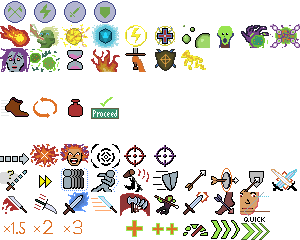
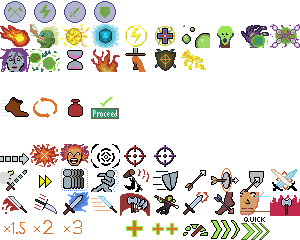
Add ability 'Execute' (regain AP on kill)

Changed region(s): [[0.9, 0.8167, 1.0, 0.9042]]

diff --git a/src/core.rs b/src/core.rs
@@ -182,7 +182,7 @@ impl CoreGame {
                                 _ => format!("{sta} stamina, {ap} AP"),
                             };
                             self.log(format!(
-                                "|{}| gained {} (Reaper)",
+                                "|{}| gained {} |<faded>(Reaper)|",
                                 character.name_tag(),
                                 gain_str
                             ))
@@ -1006,6 +1006,11 @@ impl CoreGame {
                 actual_effect = Some(ApplyEffect::RemoveActionPoints(lost));
                 format!("  |{}| lost {} AP", receiver.name_tag(), n)
             }
+            ApplyEffect::GainActionPoints(n) => {
+                let gained = receiver.action_points.gain(n);
+                actual_effect = Some(ApplyEffect::GainActionPoints(gained));
+                format!("  |{}| gained {} AP", receiver.name_tag(), n)
+            }
             ApplyEffect::GainStamina(n) => {
                 let gained = receiver.stamina.gain(n);
                 actual_effect = Some(ApplyEffect::GainStamina(gained));
@@ -1757,6 +1762,7 @@ impl CoreGame {
             for mut effect in ally_effect.apply.iter().flatten().flatten().copied() {
                 match effect {
                     ApplyEffect::RemoveActionPoints(ref mut n) => *n += degree_of_success,
+                    ApplyEffect::GainActionPoints(ref mut n) => *n += degree_of_success,
                     ApplyEffect::GainHealth(ref mut n) => *n += degree_of_success,
                     ApplyEffect::GainStamina(ref mut n) => *n += degree_of_success,
                     ApplyEffect::GainMana(ref mut n) => *n += degree_of_success,
@@ -2108,6 +2114,9 @@ impl CoreGame {
                 let mut reduced_to_nothing = false;
                 match effect {
                     ApplyEffect::RemoveActionPoints(ref mut n) => {
+                        apply_hit_type(n, hit_type, &mut reduced_to_nothing);
+                    }
+                    ApplyEffect::GainActionPoints(ref mut n) => {
                         apply_hit_type(n, hit_type, &mut reduced_to_nothing);
                     }
                     ApplyEffect::GainStamina(ref mut n) => {
@@ -2513,14 +2522,25 @@ impl CoreGame {
 
             let mut actual_health_lost = 0;
 
+            let mut applied_to_target = vec![];
+            let mut applied_to_self = vec![];
+
             if let Some(game) = game {
                 dmg_str.push_str(&format!(" = |<value>{damage}|"));
                 detail_lines.push(dmg_str);
                 actual_health_lost = game.perform_losing_health(defender, damage);
-            }
 
-            let mut applied_to_target = vec![];
-            let mut applied_to_self = vec![];
+                if defender.is_dead() {
+                    if let Some(effect) = ability_attack_effect.and_then(|e| e.on_kill_apply_self) {
+                        let (applied, log_line, _damage) =
+                            game.perform_effect_application(effect, Some(attacker), None, attacker);
+                        if let Some(applied) = applied {
+                            applied_to_self.push(applied);
+                        }
+                        detail_lines.push(log_line);
+                    }
+                }
+            }
 
             if let Some(game) = game {
                 if damage > 0 {
@@ -3347,6 +3367,9 @@ impl AbilityResolvedEvent {
             if matches!(outcome, AbilityTargetOutcome::HitEnemy { .. }) {
                 result.push(*target_id);
             }
+            if matches!(outcome, AbilityTargetOutcome::AttackedEnemy { .. }) {
+                result.push(*target_id);
+            }
         }
         if let Some(AbilityAreaOutcome { targets, .. }) = &self.area_outcome {
             for (target_id, outcome) in targets {
@@ -3692,6 +3715,7 @@ impl Characters {
 #[derive(Debug, Copy, Clone, PartialEq, Hash)]
 pub enum ApplyEffect {
     RemoveActionPoints(u32),
+    GainActionPoints(u32),
     Condition(ApplyCondition),
 
     GainHealth(u32),
@@ -3711,6 +3735,7 @@ impl ApplyEffect {
     fn multiply(&mut self, factor: u32) {
         match self {
             ApplyEffect::RemoveActionPoints(n) => *n *= factor,
+            ApplyEffect::GainActionPoints(n) => *n *= factor,
             ApplyEffect::Condition(apply_condition) => {
                 if let Some(rounds) = &mut apply_condition.duration_rounds {
                     *rounds *= factor;
@@ -3736,6 +3761,7 @@ impl Display for ApplyEffect {
     fn fmt(&self, f: &mut std::fmt::Formatter<'_>) -> std::fmt::Result {
         match self {
             ApplyEffect::RemoveActionPoints(n) => f.write_fmt(format_args!("-{n} AP")),
+            ApplyEffect::GainActionPoints(n) => f.write_fmt(format_args!("+{n} AP")),
             ApplyEffect::GainStamina(n) => f.write_fmt(format_args!("{n} |<stamina>|")),
             ApplyEffect::GainMana(n) => f.write_fmt(format_args!("{n} |<mana>|")),
             ApplyEffect::GainHealth(n) => f.write_fmt(format_args!("{n}")),
@@ -4404,6 +4430,8 @@ pub enum AbilityId {
     Fireball,
     LightningBolt,
     SearingLight,
+    Execute,
+
     Kill,
     ManaTest,
     PoisonTest,
@@ -4471,6 +4499,7 @@ impl AbilityNegativeEffect {
 pub struct AbilityAttackEffect {
     pub override_damage: Option<u32>,
     pub on_hit: Option<ApplyEffect>,
+    pub on_kill_apply_self: Option<ApplyEffect>,
 }
 
 impl AbilityAttackEffect {
@@ -4478,6 +4507,7 @@ impl AbilityAttackEffect {
         Self {
             override_damage: None,
             on_hit: None,
+            on_kill_apply_self: None,
         }
     }
 }
@@ -5204,7 +5234,9 @@ impl Character {
     }
 
     fn maybe_gain_resources_from_reaper(&self, num_killed: u32) -> Option<(u32, u32)> {
+        println!("MAYBE GAIN FROM REAPER");
         if self.knows_passive(PassiveSkill::Reaper) {
+            println!("YES GAIN FROM REAPER");
             let sta = self.stamina.gain(num_killed);
             let ap = if self.conditions.borrow().has(&Condition::ReaperApCooldown) {
                 0

diff --git a/src/data.rs b/src/data.rs
@@ -534,7 +534,7 @@ pub const SHIELD_BASH_KNOCKBACK: AbilityEnhancement = AbilityEnhancement {
 pub const SHIELD_BASH: Ability = Ability {
     id: AbilityId::ShieldBash,
     name: "Shield bash",
-    description: "Deal minor damage and inflict |<keyword>Dazed|",
+    description: "Deal |<value>3| damage and inflict |<keyword>Dazed|",
     icon: IconId::ShieldBash,
     action_point_cost: 2,
     stamina_cost: 1,
@@ -915,6 +915,35 @@ pub const LUNGE_ATTACK: Ability = Ability {
     target: AbilityTarget::Enemy {
         reach: AbilityReach::MoveIntoMelee(Range::Float(10.0)),
         effect: AbilityNegativeEffect::PerformAttack(AbilityAttackEffect::default()),
+        impact_circle: None,
+        environment_effect: None,
+    },
+    animation_color: GRAY,
+    initiate_sound: None,
+    resolve_sound: Some(SoundId::Explosion),
+    charge_fx: Some(AbilityChargeFx {
+        particle_shape: ParticleShape::Circle,
+        sound: SoundId::MechanicNoise,
+    }),
+};
+
+pub const EXECUTE: Ability = Ability {
+    id: AbilityId::Execute,
+    name: "Execute",
+    description: "Attack with penalty, and regain |<value>2| AP if it kills",
+    icon: IconId::Execute,
+    action_point_cost: 3,
+    mana_cost: 0,
+    stamina_cost: 1,
+    requirement: Some(EquipmentRequirement::Weapon(WeaponType::Melee)),
+    roll: Some(AbilityRollType::RollDuringAttack(-5)),
+    possible_enhancements: [None; 3],
+    target: AbilityTarget::Enemy {
+        reach: AbilityReach::Range(Range::Melee),
+        effect: AbilityNegativeEffect::PerformAttack(AbilityAttackEffect {
+            on_kill_apply_self: Some(ApplyEffect::GainActionPoints(2)),
+            ..AbilityAttackEffect::default()
+        }),
         impact_circle: None,
         environment_effect: None,
     },

diff --git a/src/action_button.rs b/src/action_button.rs
@@ -448,7 +448,10 @@ pub fn describe_apply_effect(effect: ApplyEffect, t: &mut Tooltip) {
     match effect {
         ApplyEffect::RemoveActionPoints(n) => t
             .technical_description
-            .push(format!("  Loses |<value>{}| AP", n)),
+            .push(format!("  Lose |<value>{}| AP", n)),
+        ApplyEffect::GainActionPoints(n) => t
+            .technical_description
+            .push(format!("  Gain |<value>{}| AP", n)),
         ApplyEffect::GainStamina(n) => t
             .technical_description
             .push(format!("  |<stamina>| |<value>{}| stamina", n)),
@@ -734,6 +737,11 @@ fn describe_ability_negative_effect(effect: AbilityNegativeEffect, t: &mut Toolt
             t.technical_description
                 .push(format!("  |<sword>| |<value>{dmg_str}|"));
             if let Some(apply_effect) = ability_attack_effect.on_hit {
+                describe_apply_effect(apply_effect, t);
+            }
+            if let Some(apply_effect) = ability_attack_effect.on_kill_apply_self {
+                t.technical_description
+                    .push(format!("|<faded>On kill: (self)|"));
                 describe_apply_effect(apply_effect, t);
             }
         }

diff --git a/src/map_data.rs b/src/map_data.rs
@@ -13,9 +13,9 @@ use crate::{
     data::{
         BAD_BOW, BAD_DAGGER, BAD_RAPIER, BAD_SMALL_SHIELD, BAD_SWORD, BAD_WAR_HAMMER, CHAIN_MAIL,
         ENEMY_BRACE, ENEMY_EXPLODING_ARROW, ENEMY_INSPIRE, ENEMY_SLASHING, ENEMY_TACKLE,
-        ENSLAVED_RAPIER, ENSLAVED_SWORD, HULDRA_HEAL, HULDRA_INFECT, HULDRA_INFLICT_HORRORS, KILL,
-        LIGHTNING_BOLT, LIGHTNING_BOLT_REACH, MAGIC_SWORD, MANATEST, POISONTEST, SLASHING_RAPIER,
-        SMALL_SHIELD,
+        ENSLAVED_RAPIER, ENSLAVED_SWORD, EXECUTE, HULDRA_HEAL, HULDRA_INFECT,
+        HULDRA_INFLICT_HORRORS, KILL, LIGHTNING_BOLT, LIGHTNING_BOLT_REACH, MAGIC_SWORD, MANATEST,
+        POISONTEST, SLASHING_RAPIER, SMALL_SHIELD,
     },
     grid::GameGrid,
     pathfind::{Liquid, Occupation, PathfindGrid},
@@ -460,7 +460,7 @@ pub fn make_low_level_party() -> (Rc<Party>, Vec<Character>) {
 
     // TODO
 
-    bob.learn_ability(KILL);
+    bob.learn_ability(EXECUTE);
     bob.learn_passive(PassiveSkill::HardenedSkin);
     bob.learn_passive(PassiveSkill::Reaper);
     //bob.set_weapon(HandType::MainHand, ZERO_SWORD);

diff --git a/src/game_ui.rs b/src/game_ui.rs
@@ -1704,10 +1704,14 @@ impl UserInterface {
                     // dice roll is effectively ignored since the ability instead proceeded to perform an attack (which uses
                     // its own dice roll)
                     detail_lines.clear();
-                    if attacks.len() == 1 {
-                        line.push_str(" (1 target)");
-                    } else {
-                        line.push_str(&format!(" ({} targets)", attacks.len()));
+
+                    // For AoE ability - show how many targets were hit
+                    if !ability.targets_single_enemy() {
+                        if attacks.len() == 1 {
+                            line.push_str(" (1 target)");
+                        } else {
+                            line.push_str(&format!(" ({} targets)", attacks.len()));
+                        }
                     }
                 }
 

diff --git a/src/textures.rs b/src/textures.rs
@@ -193,6 +193,7 @@ pub enum IconId {
     Energize,
     Inspire,
     LightningBolt,
+    Execute,
 
     HardenedSkin,
     WeaponProficiency,
@@ -958,6 +959,7 @@ pub fn draw_icon(icon: IconId, x: f32, y: f32, dest_size: Option<(f32, f32)>) {
         IconId::Rage => (2, 6),
         IconId::CrushingStrike => (4, 7),
         IconId::CarefulAim => (8, 8),
+        IconId::Execute => (9, 8),
         IconId::CripplingShot => (7, 8),
         IconId::TrueStrike => (5, 6),
         IconId::SpellAdvantage => (3, 1),
@@ -979,6 +981,7 @@ pub fn draw_icon(icon: IconId, x: f32, y: f32, dest_size: Option<(f32, f32)>) {
         IconId::QuickStrike => (3, 8),
         IconId::SweepAttack => (4, 8),
         IconId::LungeAttack => (5, 8),
+
         IconId::Slashing => (0, 8),
         IconId::Stabbing => (1, 8),
         IconId::Feint => (0, 7),
